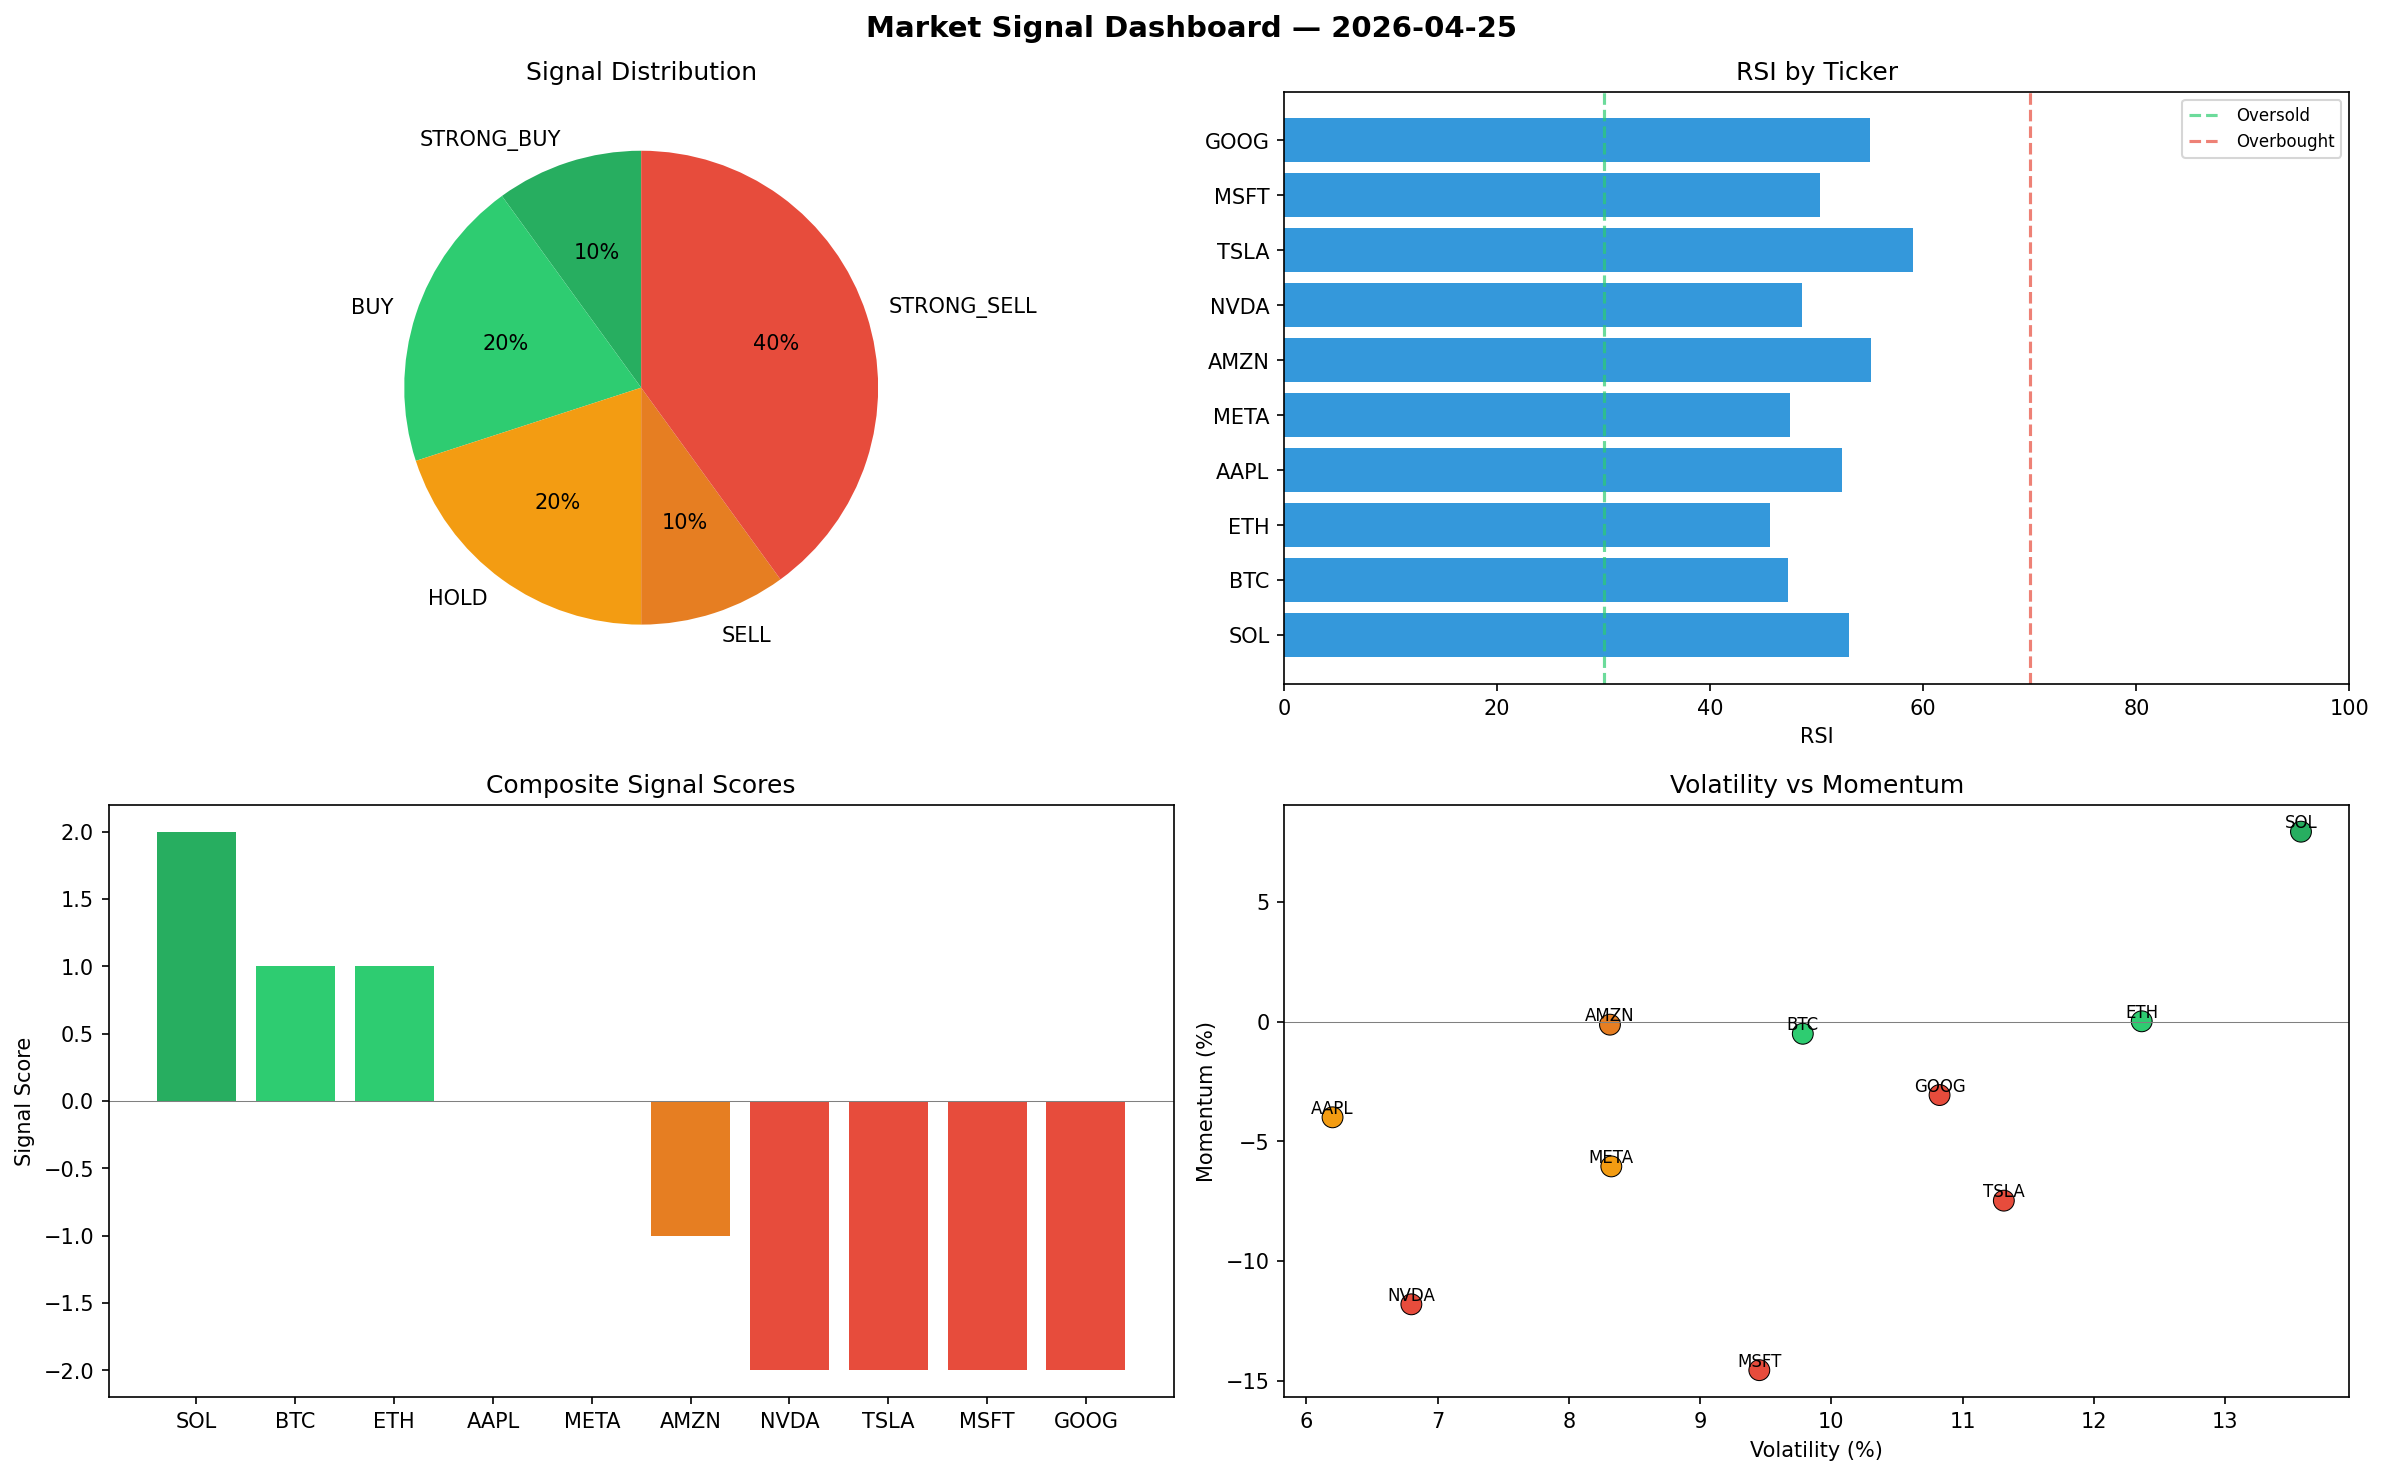
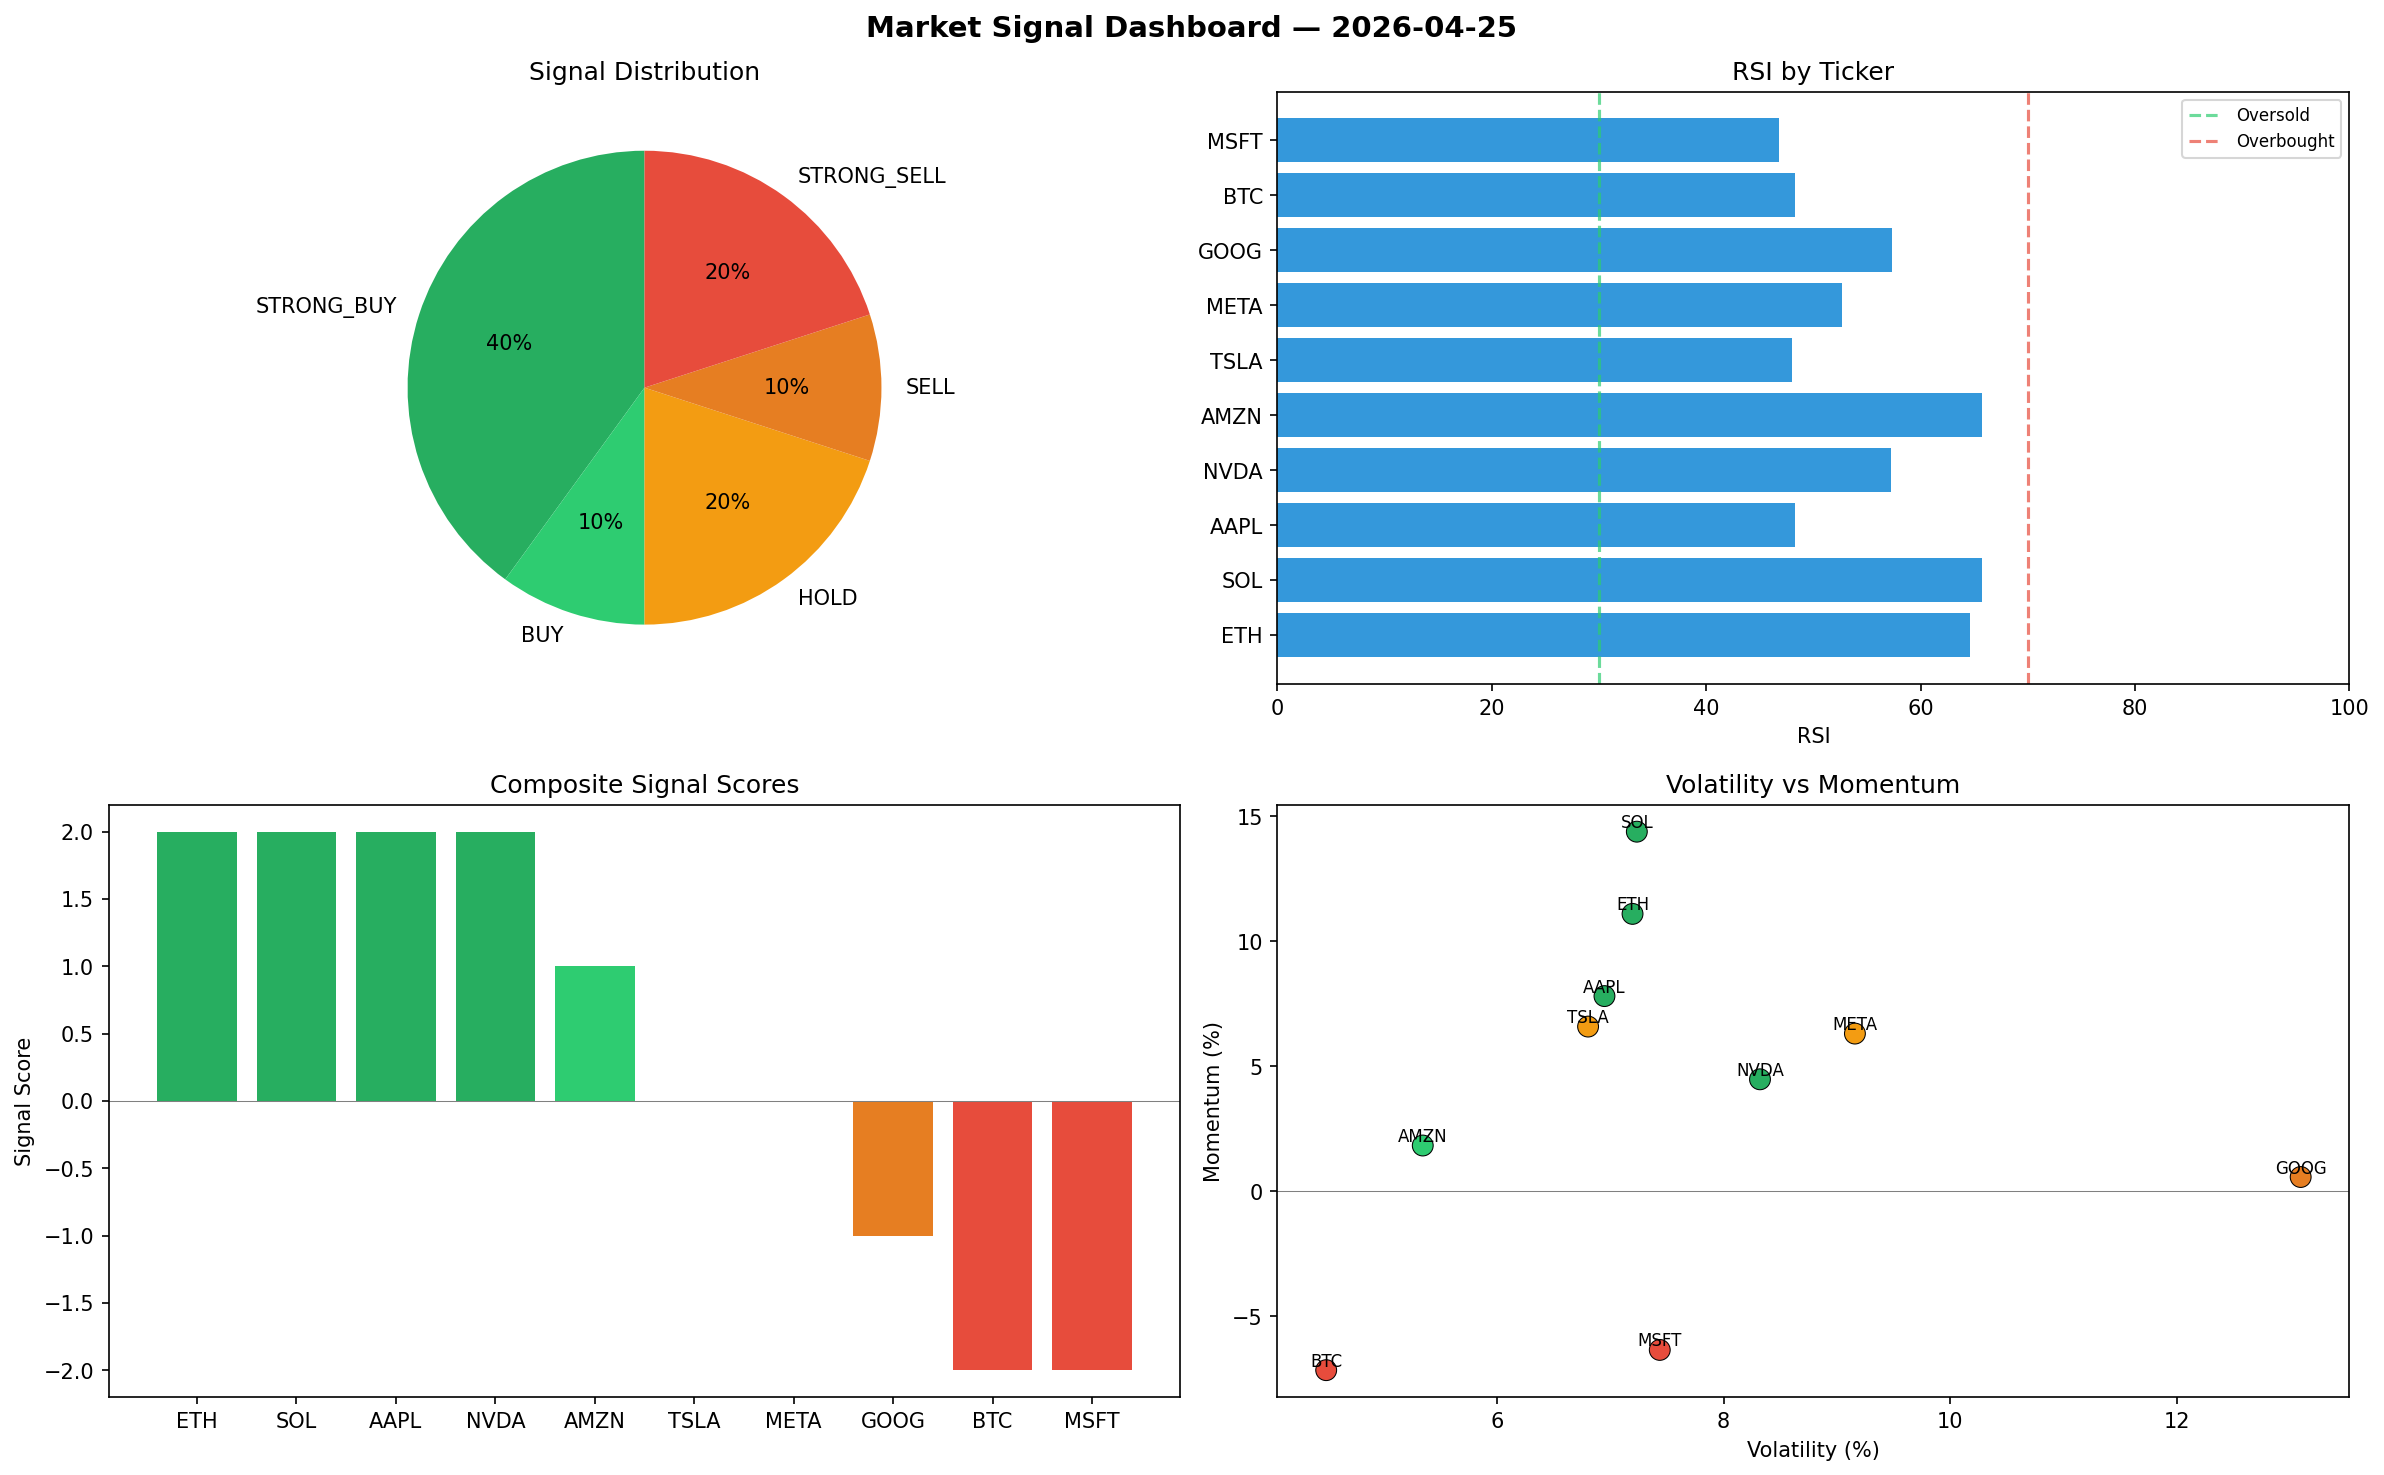
automated-bots: market signals 2026-04-25T15:09

diff --git a/logs/2026-04-25.md b/logs/2026-04-25.md
@@ -1,6 +1,6 @@
 # Market Signal Report — 2026-04-25
 
-**Run ID:** `0198f0a998` | **Buy:** 3 | **Sell:** 5 | **Hold:** 2
+**Run ID:** `12dd799663` | **Buy:** 5 | **Sell:** 3 | **Hold:** 2
 
 ![Dashboard](2026-04-25_dashboard.png)
 
@@ -8,28 +8,28 @@
 
 | Ticker | Price | Signal | Score | RSI | Momentum | Confidence |
 |--------|-------|--------|-------|-----|----------|------------|
-| SOL | $3033.5 | **STRONG_BUY** | 2 | 53.05 | 0.0793 | 0.5 |
-| BTC | $664.45 | **BUY** | 1 | 47.29 | -0.0051 | 0.25 |
-| ETH | $2913.7 | **BUY** | 1 | 45.64 | 0.0001 | 0.25 |
-| AAPL | $2952.29 | **HOLD** | 0 | 52.38 | -0.04 | 0.0 |
-| META | $4271.5 | **HOLD** | 0 | 47.5 | -0.0605 | 0.0 |
-| AMZN | $2972.83 | **SELL** | -1 | 55.13 | -0.0013 | 0.25 |
-| NVDA | $1237.49 | **STRONG_SELL** | -2 | 48.66 | -0.1181 | 0.5 |
-| TSLA | $3465.94 | **STRONG_SELL** | -2 | 59.06 | -0.0748 | 0.5 |
-| MSFT | $686.85 | **STRONG_SELL** | -2 | 50.35 | -0.1456 | 0.5 |
-| GOOG | $4039.77 | **STRONG_SELL** | -2 | 55.03 | -0.0307 | 0.5 |
+| ETH | $5019.85 | **STRONG_BUY** | 2 | 64.61 | 0.111 | 0.5 |
+| SOL | $703.2 | **STRONG_BUY** | 2 | 65.72 | 0.1439 | 0.5 |
+| AAPL | $1243.03 | **STRONG_BUY** | 2 | 48.3 | 0.0781 | 0.5 |
+| NVDA | $3459.03 | **STRONG_BUY** | 2 | 57.2 | 0.0448 | 0.5 |
+| AMZN | $2614.48 | **BUY** | 1 | 65.77 | 0.0183 | 0.25 |
+| TSLA | $3065.73 | **HOLD** | 0 | 48.03 | 0.0659 | 0.0 |
+| META | $2558.28 | **HOLD** | 0 | 52.64 | 0.0631 | 0.0 |
+| GOOG | $2566.45 | **SELL** | -1 | 57.33 | 0.0057 | 0.25 |
+| BTC | $2124.14 | **STRONG_SELL** | -2 | 48.26 | -0.0716 | 0.5 |
+| MSFT | $1172.3 | **STRONG_SELL** | -2 | 46.78 | -0.0635 | 0.5 |
 
 ## Delta vs Yesterday
 
 | Ticker | Today | Yesterday | Price Change | Signal Changed |
 |--------|-------|-----------|-------------|----------------|
-| SOL | STRONG_BUY | SELL | 📉 -2.19% | ⚠ YES |
-| BTC | BUY | SELL | 📉 -32.46% | ⚠ YES |
-| ETH | BUY | STRONG_BUY | 📉 -41.41% | ⚠ YES |
-| AAPL | HOLD | HOLD | 📉 -25.16% | — |
-| META | HOLD | HOLD | 📈 277.35% | — |
-| AMZN | SELL | HOLD | 📉 -2.51% | ⚠ YES |
-| NVDA | STRONG_SELL | HOLD | 📉 -59.73% | ⚠ YES |
-| TSLA | STRONG_SELL | HOLD | 📈 233.36% | ⚠ YES |
-| MSFT | STRONG_SELL | HOLD | 📉 -83.08% | ⚠ YES |
-| GOOG | STRONG_SELL | STRONG_SELL | 📈 2.99% | — |
+| ETH | STRONG_BUY | STRONG_BUY | 📈 0.94% | — |
+| SOL | STRONG_BUY | SELL | 📉 -77.33% | ⚠ YES |
+| AAPL | STRONG_BUY | HOLD | 📉 -68.49% | ⚠ YES |
+| NVDA | STRONG_BUY | HOLD | 📈 12.57% | ⚠ YES |
+| AMZN | BUY | HOLD | 📉 -14.26% | ⚠ YES |
+| TSLA | HOLD | HOLD | 📈 194.86% | — |
+| META | HOLD | HOLD | 📈 126.0% | — |
+| GOOG | SELL | STRONG_SELL | 📉 -34.57% | ⚠ YES |
+| BTC | STRONG_SELL | SELL | 📈 115.92% | ⚠ YES |
+| MSFT | STRONG_SELL | HOLD | 📉 -71.12% | ⚠ YES |
